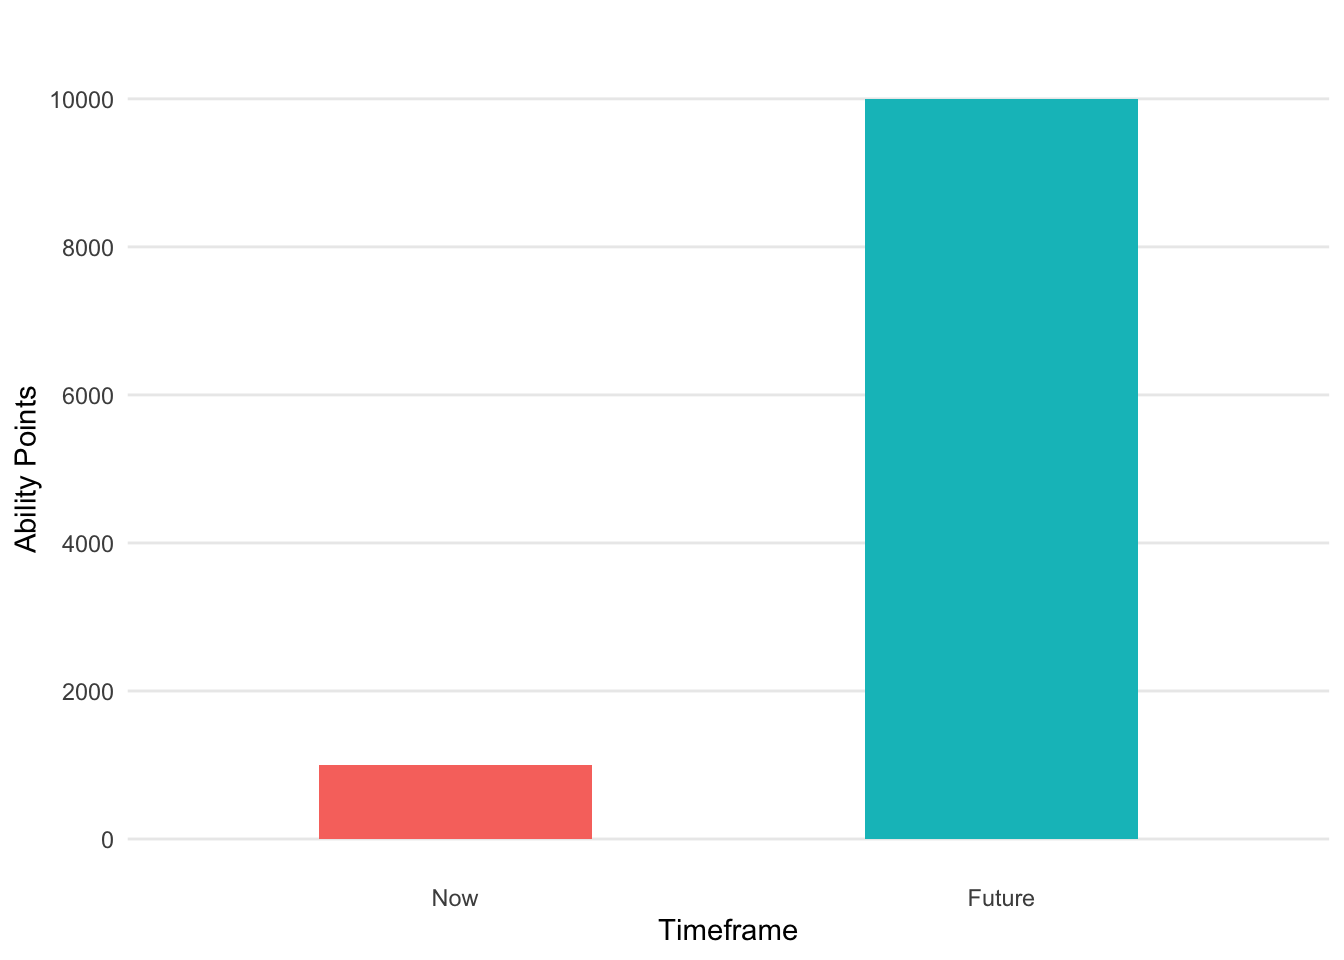
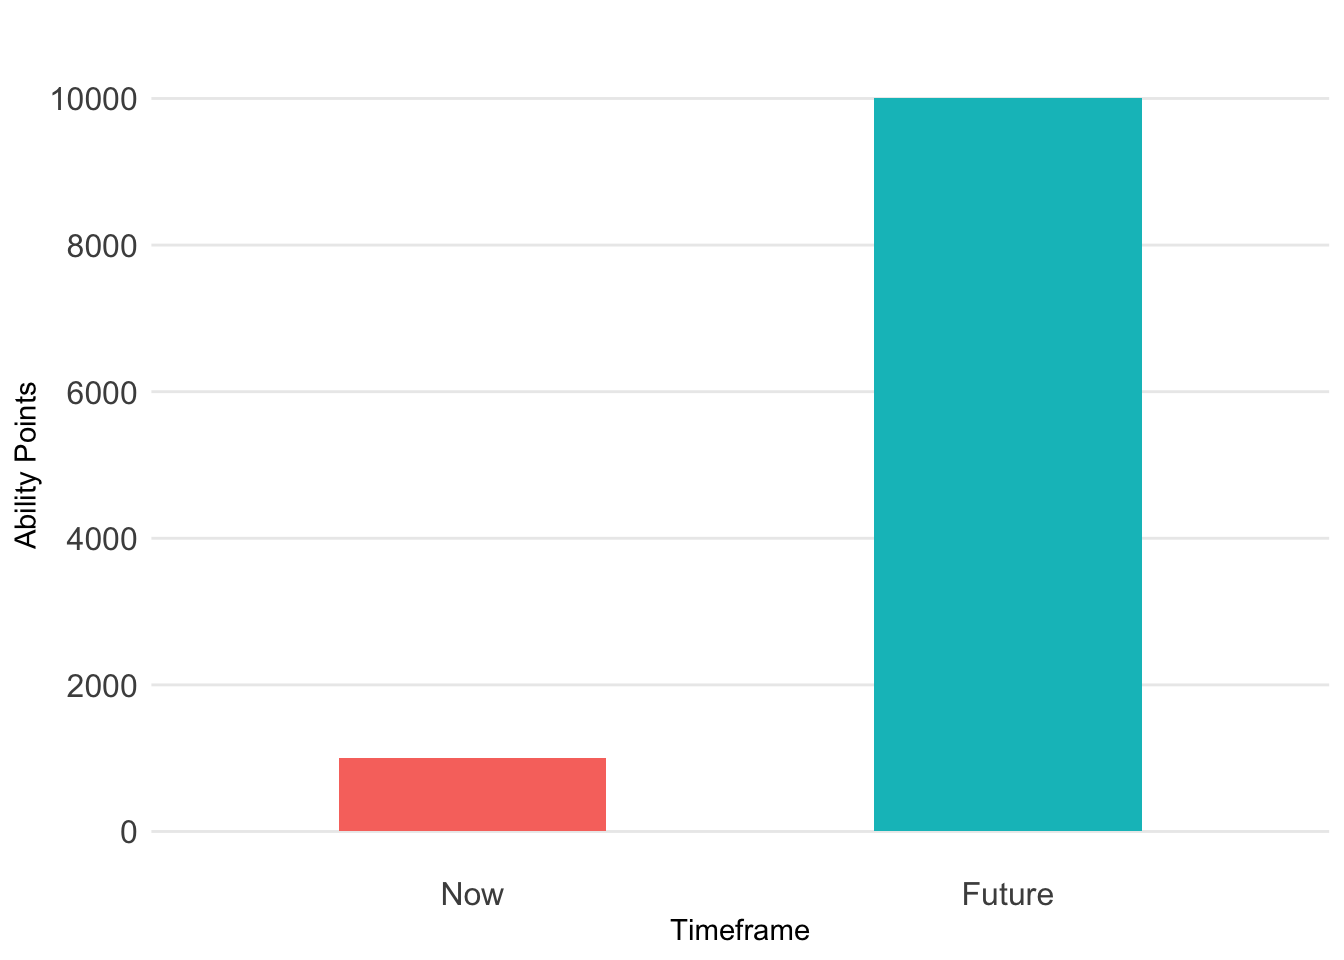
image optim & font size

diff --git a/docs/index.html b/docs/index.html
@@ -186,7 +186,7 @@ window.Quarto = {
 
 <div class="quarto-listing quarto-listing-container-grid" id="listing-listing">
 <div class="list grid quarto-listing-cols-3">
-<div class="g-col-1" data-index="0" data-categories="personal,announcement" data-listing-date-sort="1734847200000" data-listing-file-modified-sort="1734926411263" data-listing-date-modified-sort="NaN" data-listing-reading-time-sort="1" data-listing-word-count-sort="170">
+<div class="g-col-1" data-index="0" data-categories="personal,announcement" data-listing-date-sort="1734847200000" data-listing-file-modified-sort="1734974453335" data-listing-date-modified-sort="NaN" data-listing-reading-time-sort="1" data-listing-word-count-sort="178">
 <a href="./posts/2024-12-22-hi-and-welcome/index.html" class="quarto-grid-link">
 <div class="quarto-grid-item card h-100 card-left">
 <p class="card-img-top"><img src="posts/2024-12-22-hi-and-welcome/images/IMG_2634 Large.jpeg" style="height: 150px;"  class="thumbnail-image card-img"/></p>

diff --git a/docs/posts/2024-12-22-hi-and-welcome/index.html b/docs/posts/2024-12-22-hi-and-welcome/index.html
@@ -96,6 +96,10 @@ ul.task-list li input[type="checkbox"] {
 <span class="menu-text">Feed</span></a>
   </li>  
   <li class="nav-item">
+    <a class="nav-link" href="../../projects.html"> 
+<span class="menu-text">Projects</span></a>
+  </li>  
+  <li class="nav-item">
     <a class="nav-link" href="../../about.html"> 
 <span class="menu-text">About</span></a>
   </li>  
